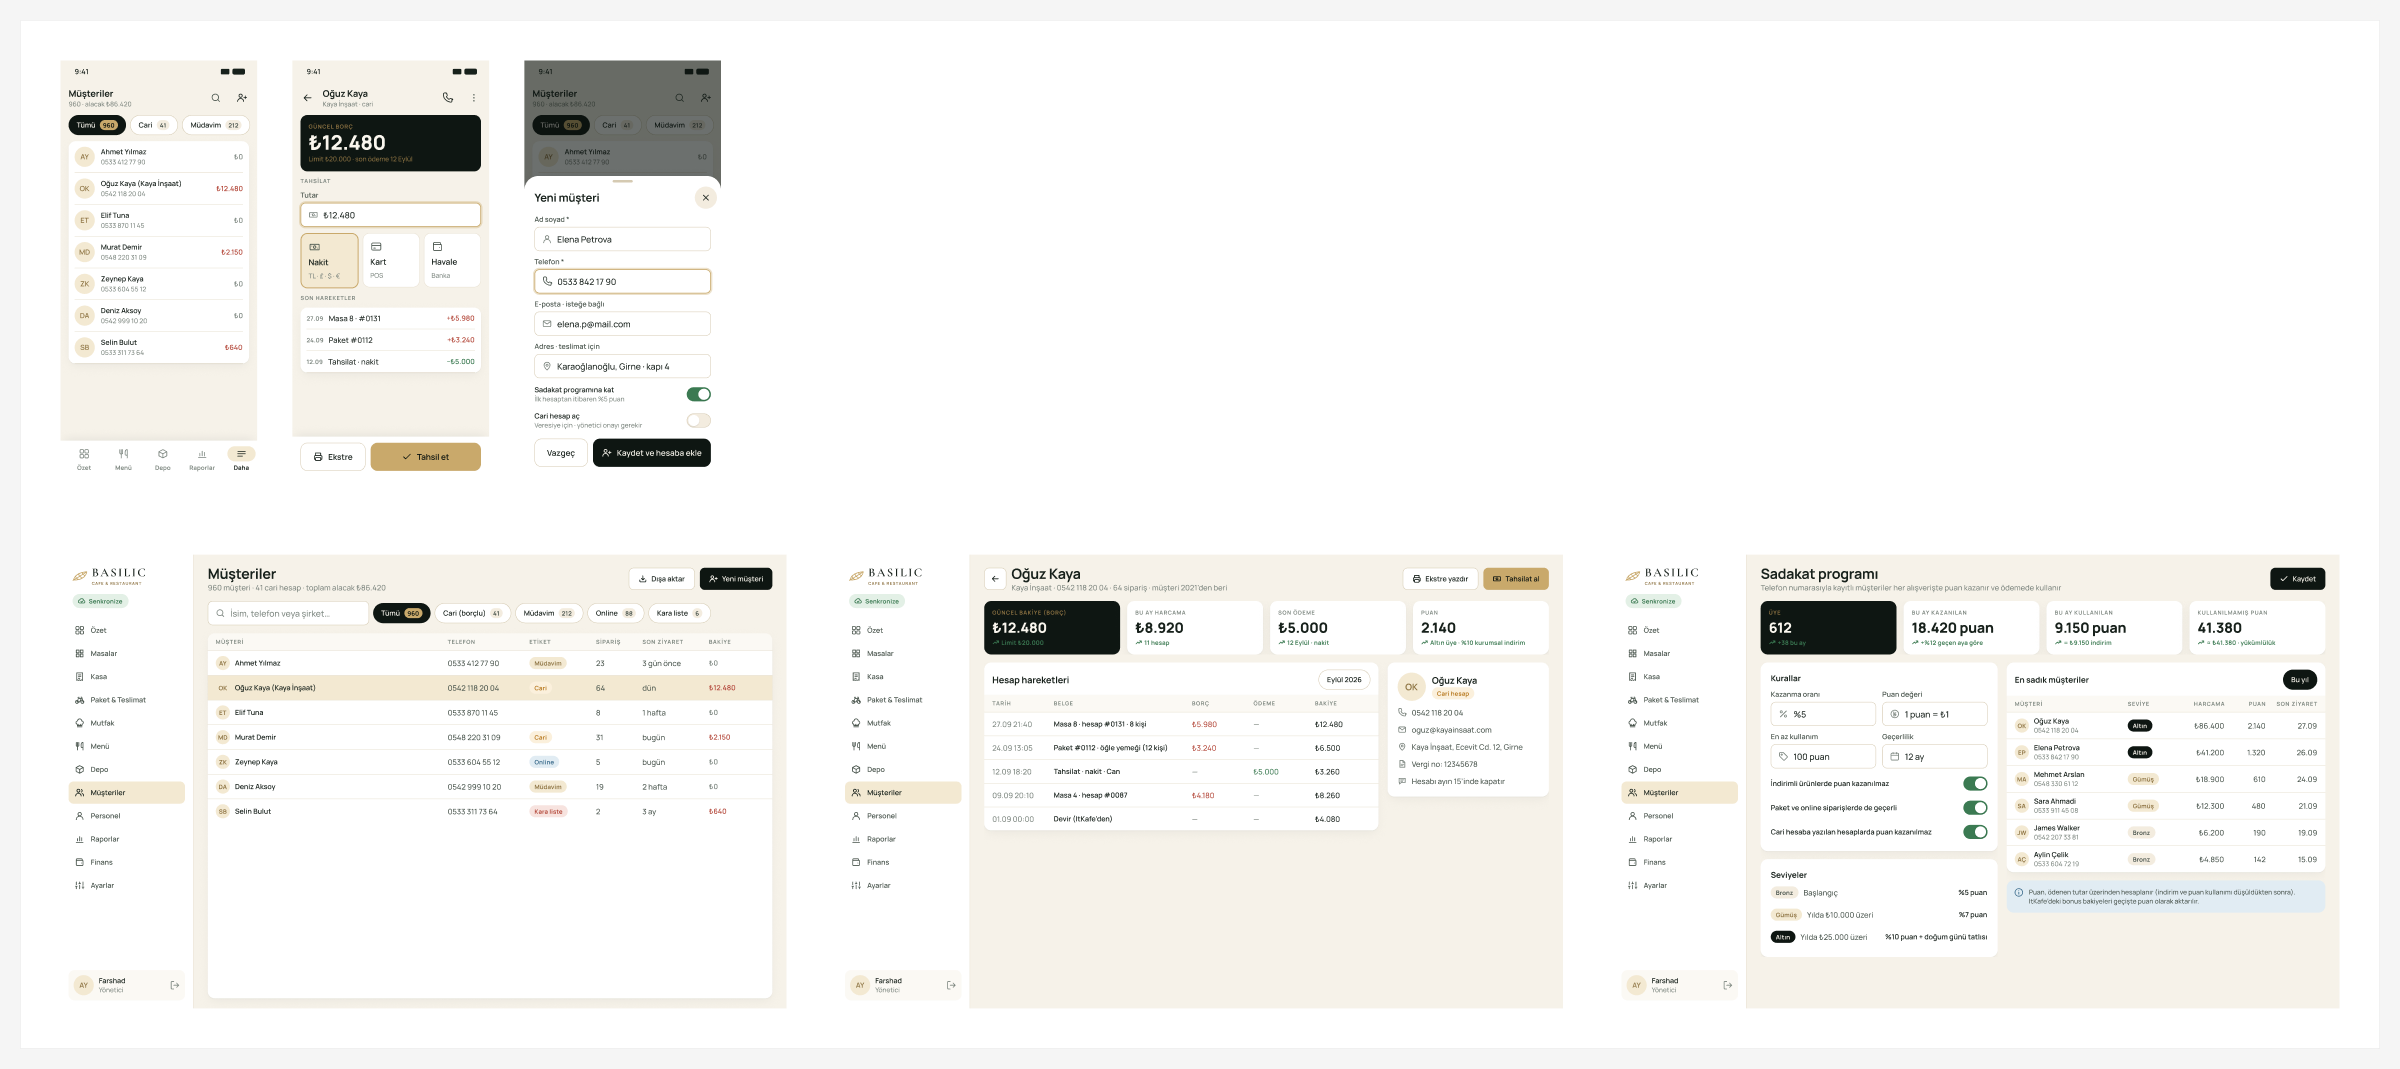
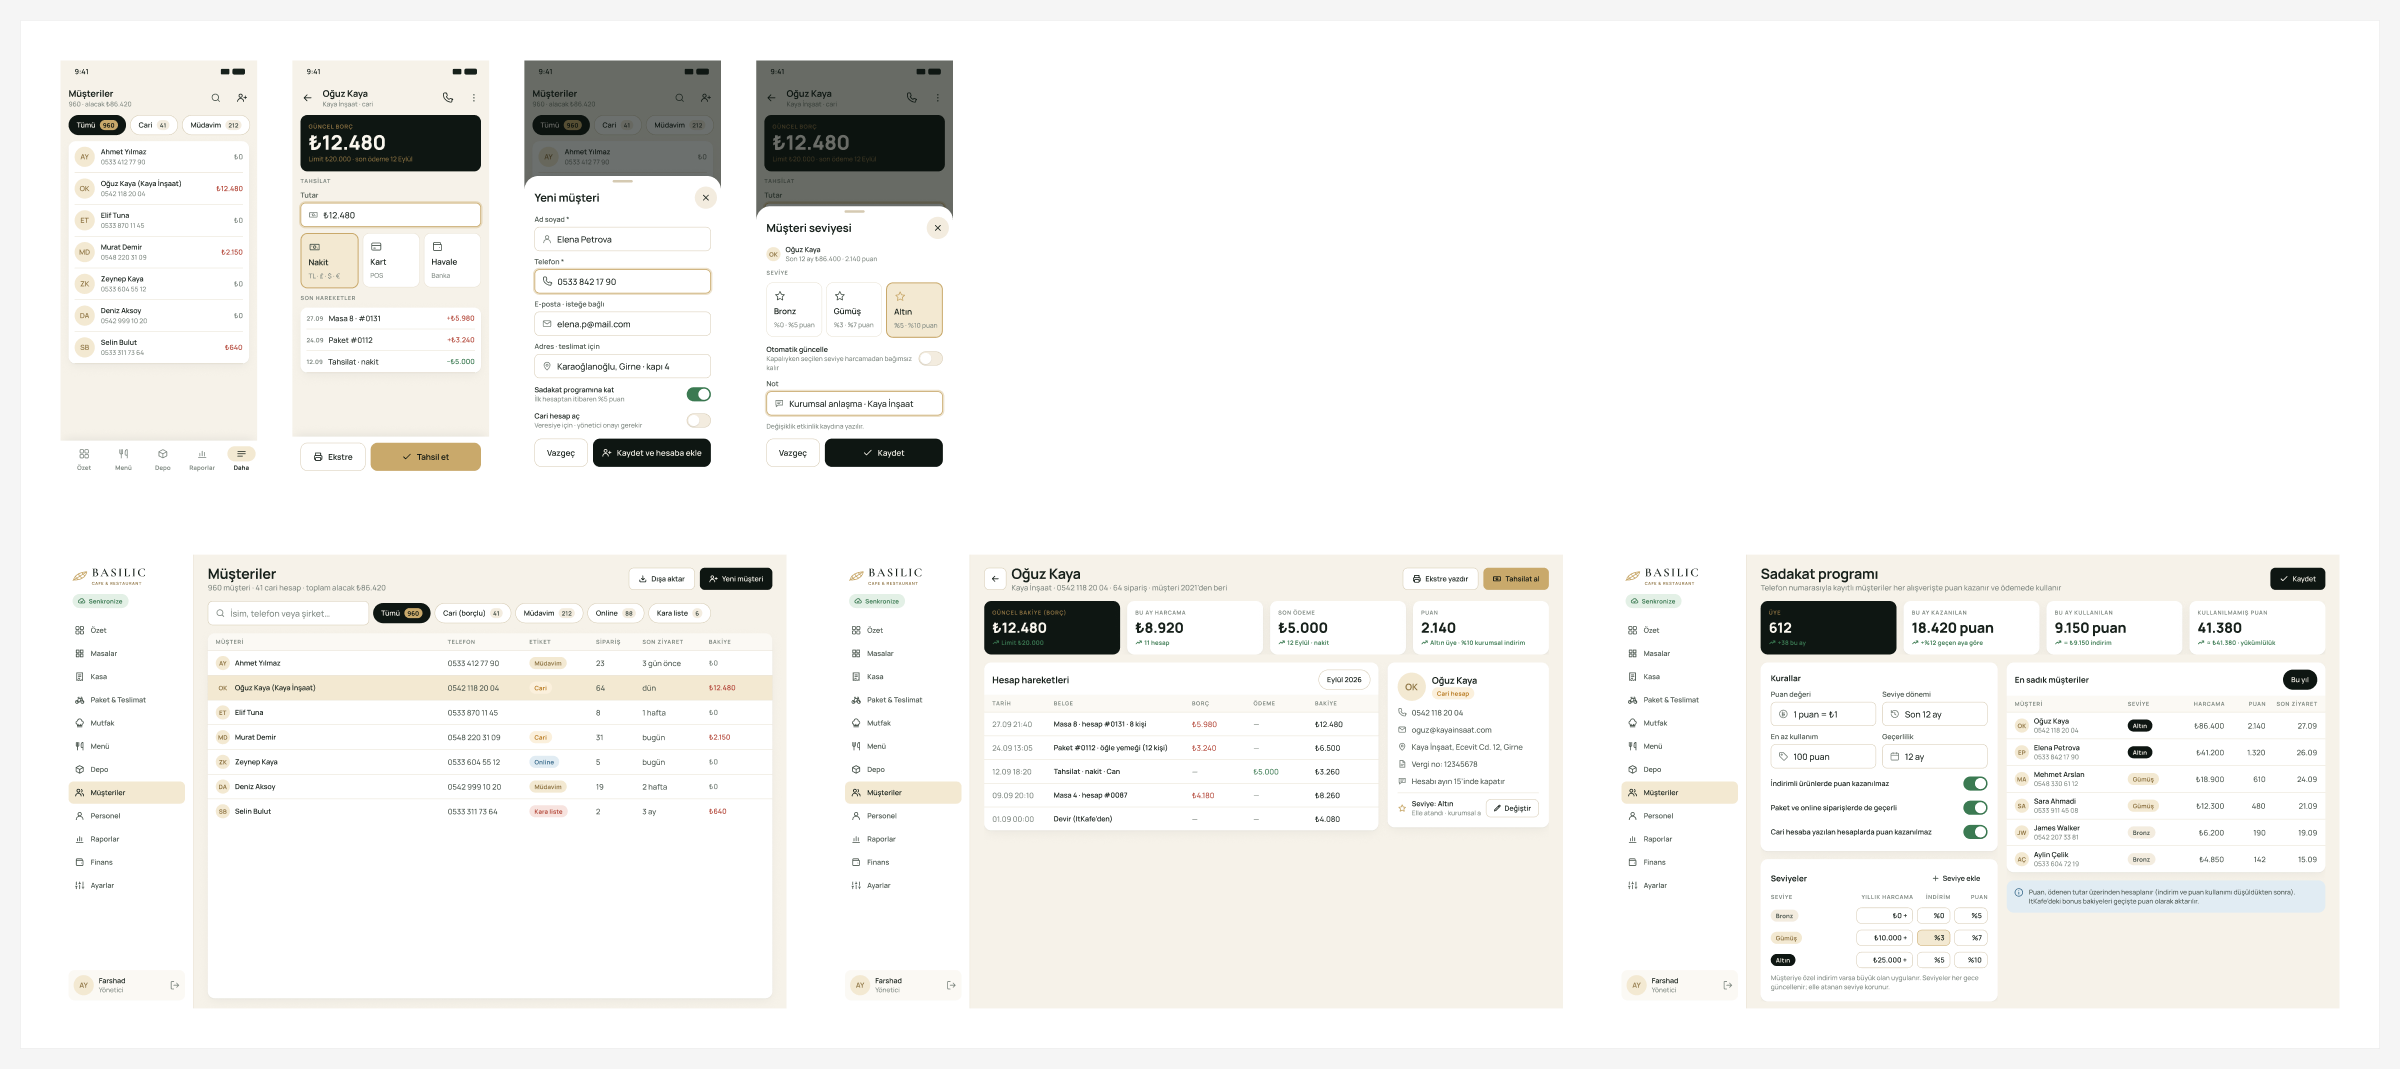
Design: editable loyalty tiers, per-customer tier, user management
- CU5: tier table editable (threshold, discount %, earn %), point value
- CU2 + CU7: set a customer's tier by hand
- ST8 + ST9: add, edit, deactivate users; reset PIN or password
- Roadmap, handoff notes and screen index updated (100 screens)

diff --git a/PLAN.md b/PLAN.md
@@ -17,12 +17,12 @@
 |---|---|---|
 | ۰ | طرح و آمادهسازی | ✅ ۷ از ۷ |
 | ۱ | طراحی کامل در Figma (موبایل و دسکتاپ) | ✅ ۱۵ از ۱۵ |
-| ۲ | پایه، امنیت و زیرساخت | ⬜ ۰ از ۱۴ |
+| ۲ | پایه، امنیت و زیرساخت | ⬜ ۰ از ۱۵ |
 | ۳ | منو و میزها | ⬜ ۰ از ۸ |
 | ۴ | سفارش و صندوق | ⬜ ۰ از ۱۰ |
 | ۵ | آشپزخانه و بار | ⬜ ۰ از ۵ |
 | ۶ | انبار | ⬜ ۰ از ۸ |
-| ۷ | مشتریان، حسابها و باشگاه مشتریان | ⬜ ۰ از ۷ |
+| ۷ | مشتریان، حسابها و باشگاه مشتریان | ⬜ ۰ از ۸ |
 | ۸ | پرسنل و حقوق | ⬜ ۰ از ۴ |
 | ۹ | گزارشها، مالی و خروجی حسابدار | ⬜ ۰ از ۱۱ |
 | ۱۰ | انتقال داده، تست در رستوران و شروع | ⬜ ۰ از ۹ |
@@ -162,7 +162,7 @@
 - تخفیفها و پروموشنها.
 - **ثبت سریع مشتری جدید** توسط صندوق: فقط نام و تلفن لازم است و بقیه اختیاری است.
 - **سابقهٔ کامل خرید** هر مشتری: همهٔ سفارشها، مبلغها و آیتمهای پرتکرار.
-- **باشگاه مشتریان:** مشتری با شمارهٔ تلفن امتیاز جمع میکند و هنگام پرداخت از آن استفاده میکند. پیشفرض: ۵٪ هر خرید امتیاز میشود و هر امتیاز ۱ لیر است (قابل تغییر). تخفیف ثابت برای مشتری خاص هم مثل الان میماند. امتیازهای فعلی ItKafe منتقل میشوند.
+- **باشگاه مشتریان:** مشتری با شمارهٔ تلفن امتیاز جمع میکند و هنگام پرداخت از آن استفاده میکند. ارزش هر امتیاز، حداقل استفاده، مدت اعتبار و **سطحها** (نام، حد خرید سالانه، درصد تخفیف و درصد امتیاز) همه از پنل مدیریت قابل تغییرند. پیشفرض: برنز ۰٪ تخفیف و ۵٪ امتیاز؛ نقره (از ۱۰٬۰۰۰ لیر خرید در سال) ۳٪ و ۷٪؛ طلا (از ۲۵٬۰۰۰ لیر) ۵٪ و ۱۰٪؛ هر امتیاز ۱ لیر. سطح هر مشتری هر شب از خرید ۱۲ ماه اخیرش حساب میشود، و مدیر میتواند سطح یک مشتری را دستی تغییر دهد (سطح دستی ثابت میماند). تخفیف ثابت برای مشتری خاص هم مثل الان میماند؛ اگر هم تخفیف سطح و هم تخفیف خاص داشت، بزرگتر اعمال میشود. امتیازهای فعلی ItKafe منتقل میشوند.
 
 ### ۵.۸ پرسنل
 - کارمندان، سمتها و دسترسیها. کارکنان با PIN وارد میشوند.
@@ -212,6 +212,7 @@
 
 ### ۵.۱۳ امنیت و نگهداری
 - **نقشها و سطح دسترسی:** نقشهای آماده (گارسون، صندوق، سرآشپز، انباردار، مدیر) و امکان ساختن نقش تازه. دسترسی هر نفر از نقشش میآید و برای همان نفر قابل تغییر است.
+- **مدیریت کاربران:** مدیر کاربر اضافه، ویرایش و حذف میکند و PIN یا رمز هر کاربر را ریست میکند. حذف یعنی غیرفعال کردن: کاربر دیگر وارد نمیشود ولی سابقهٔ سفارشها و فعالیتش پاک نمیشود. PIN تازه فقط یک بار نشان داده میشود؛ PIN بعد از ۳ بار اشتباه ۳۰ ثانیه قفل میشود.
 - **گزارش فعالیت کاربران:** هر کار مهم خودکار ثبت میشود: ورود و خروج، حذف آیتم، تخفیف، تغییر قیمت، باز کردن کشوی پول، ورود و خروج پول، و تغییر تنظیمات. بر اساس نفر، نوع کار و تاریخ قابل جستجوست. این گزارش قابل پاک کردن یا ویرایش نیست.
 - **پشتیبانگیری و بازیابی از پنل مدیریت:** بکاپ خودکار شبانه (مثل قبل)، دکمهٔ «الان بکاپ بگیر»، دانلود فایل بکاپ، و بازیابی از یک بکاپ انتخابی. بازیابی فقط کار مدیر است، تأیید دوباره میخواهد و قبل از آن خودکار از وضعیت فعلی بکاپ گرفته میشود.
 
@@ -293,7 +294,7 @@
 - [x] قالب فیشهای چاپی ۸۰ میلیمتری
 - [x] امکانات تکمیلی: پروفایل رستوران، بکاپ و بازیابی، قیمت و موجودی سریع، باشگاه مشتریان و مشتری جدید، تراکنشهای صندوق، ورود آنلاین با رمز، عملکرد کارکنان، هزینه و درآمد، سود و زیان، نقشها و گزارش فعالیت
 
-> ۹۷ صفحه (۲۴ صفحهٔ تازه در نسخهٔ ۱٫۱)، ۳۶ جزء، ۹۸ آیکون. فهرست صفحهها با لینک مستقیم Figma: [docs/screens.md](docs/screens.md) · راهنمای تحویل به برنامهنویسی (توکنها ← CSS، اجزا، قواعد چیدمان): [docs/design-handoff.md](docs/design-handoff.md) · تصویر کلی هر صفحه: پوشهٔ [design/](design/)
+> ۱۰۰ صفحه (۲۷ صفحهٔ تازه در نسخهٔ ۱٫۱)، ۳۶ جزء، ۹۸ آیکون. فهرست صفحهها با لینک مستقیم Figma: [docs/screens.md](docs/screens.md) · راهنمای تحویل به برنامهنویسی (توکنها ← CSS، اجزا، قواعد چیدمان): [docs/design-handoff.md](docs/design-handoff.md) · تصویر کلی هر صفحه: پوشهٔ [design/](design/)
 
 ### مرحلهٔ ۲ — پایه، امنیت و زیرساخت
 > نتیجه: برنامهای که هنوز خالی است ولی روی PC و وب بالا میآید و با هم همگام است.
@@ -307,6 +308,7 @@
 - [ ] پشتیبانگیری خودکار و برگرداندن روی یک PC دیگر
 - [ ] پشتیبانگیری و بازیابی از پنل مدیریت
 - [ ] نقشها و سطح دسترسی قابل تعریف
+- [ ] مدیریت کاربران: افزودن، ویرایش، حذف (غیرفعال) و ریست PIN و رمز
 - [ ] ثبت خودکار فعالیت همهٔ کاربران و صفحهٔ گزارش فعالیت
 - [ ] پروفایل رستوران: لوگو، مشخصات و متن فیش
 - [ ] تنظیمات پایه: ارزها و نرخها، حداقل سفارش، پرینترها
@@ -362,6 +364,7 @@
 - [ ] ثبت سریع مشتری جدید توسط صندوق
 - [ ] سابقهٔ کامل خرید هر مشتری
 - [ ] باشگاه مشتریان: جمع کردن و خرج کردن امتیاز
+- [ ] سطحهای مشتری قابل ویرایش (تخفیف و امتیاز) و تغییر دستی سطح هر مشتری
 - [ ] تطبیق نهایی با Figma در موبایل و دسکتاپ
 
 ### مرحلهٔ ۸ — پرسنل و حقوق
@@ -447,6 +450,9 @@
 | ۲۶ | بخش مالی: ثبت هزینه و درآمد، و گزارش سود و زیان | ۲۰۲۶/۰۹/۲۸ |
 | ۲۷ | نقشهای قابل تعریف، گزارش فعالیت غیرقابلویرایش، و بکاپ و بازیابی از پنل مدیریت | ۲۰۲۶/۰۹/۲۸ |
 | ۲۸ | پروفایل رستوران (لوگو و مشخصات) منبع همهٔ نامها و اطلاعات تماس در برنامه است | ۲۰۲۶/۰۹/۲۸ |
+| ۲۹ | ارزش امتیاز و سطحهای مشتری (درصد تخفیف و امتیاز هر سطح) از پنل مدیریت قابل تغییرند؛ سطح هر مشتری دستی هم قابل تغییر است | ۲۰۲۶/۰۹/۲۸ |
+| ۳۰ | مدیر کاربران را اضافه، ویرایش و حذف (غیرفعال) میکند و PIN و رمزشان را ریست میکند | ۲۰۲۶/۰۹/۲۸ |
+| ۳۱ | ساخت برنامه بدون توقف و بدون تأیید مرحلهای، به ترتیب نقشهٔ راه، انجام میشود | ۲۰۲۶/۰۹/۲۸ |
 
 ## ۱۱. موارد باز
 

diff --git a/docs/screens.md b/docs/screens.md
@@ -1,6 +1,6 @@
 # Screens / صفحهها
 
-Figma: https://www.figma.com/design/1VzYLeeic0ExwgdWt7RbVw — **97 screens**. Every screen links to its frame. Overview images are in [`design/`](../design/).
+Figma: https://www.figma.com/design/1VzYLeeic0ExwgdWt7RbVw — **100 screens**. Every screen links to its frame. Overview images are in [`design/`](../design/).
 
 🆕 = added in design v1.1 (2026-09-28) · ✏ = changed in v1.1 (Sofrexa branding, password login, loyalty points).
 
@@ -104,6 +104,7 @@ Figma: https://www.figma.com/design/1VzYLeeic0ExwgdWt7RbVw — **97 screens**. E
 | CU4 | Müşteri hesabı + tahsilat · Mobile | [open](https://www.figma.com/design/1VzYLeeic0ExwgdWt7RbVw?node-id=41-652) |
 | CU5 🆕 | Sadakat programı · Desktop | [open](https://www.figma.com/design/1VzYLeeic0ExwgdWt7RbVw?node-id=81-425) |
 | CU6 🆕 | Yeni müşteri (sheet) · Mobile | [open](https://www.figma.com/design/1VzYLeeic0ExwgdWt7RbVw?node-id=81-888) |
+| CU7 🆕 | Müşteri seviyesi (sheet) · Mobile | [open](https://www.figma.com/design/1VzYLeeic0ExwgdWt7RbVw?node-id=103-743) |
 
 ## 08 · Personel · پرسنل
 
@@ -118,6 +119,8 @@ Figma: https://www.figma.com/design/1VzYLeeic0ExwgdWt7RbVw — **97 screens**. E
 | ST5 🆕 | Roller ve yetkiler · Desktop | [open](https://www.figma.com/design/1VzYLeeic0ExwgdWt7RbVw?node-id=93-354) |
 | ST6 🆕 | Etkinlik kaydı · Desktop | [open](https://www.figma.com/design/1VzYLeeic0ExwgdWt7RbVw?node-id=93-813) |
 | ST7 🆕 | Etkinlik kaydı · Mobile | [open](https://www.figma.com/design/1VzYLeeic0ExwgdWt7RbVw?node-id=93-1214) |
+| ST8 🆕 | Kullanıcılar ve giriş · Desktop | [open](https://www.figma.com/design/1VzYLeeic0ExwgdWt7RbVw?node-id=104-836) |
+| ST9 🆕 | Kullanıcı düzenle (sheet) · Mobile | [open](https://www.figma.com/design/1VzYLeeic0ExwgdWt7RbVw?node-id=104-1339) |
 
 ## 09 · Raporlar · گزارشها
 

diff --git a/docs/design-handoff.md b/docs/design-handoff.md
@@ -109,6 +109,17 @@ New screens are marked 🆕 in [screens.md](screens.md). Build them with the sam
   - Points are earned on the amount actually paid, after discounts and points.
   - Tier rates: Bronze 5 %, Silver 7 %, Gold 10 %. 1 point = ₺1. Minimum use is 100 points.
   - ItKafe bonus balances are imported as points.
+- **Loyalty tiers (CU5, CU7):**
+  - Each tier has a name, a yearly-spend threshold, a discount % and an earn %, all editable. The point value, minimum redemption and expiry are editable too.
+  - A nightly job recalculates each customer's tier from the last 12 months of spending.
+  - A tier set by hand (CU7) is kept until it is switched back to automatic.
+  - If a customer has both a tier discount and a personal discount, the larger one applies.
+- **Users (ST8, ST9):**
+  - The manager adds, edits and deletes users and resets PINs and passwords.
+  - Delete means deactivate: history stays linked.
+  - A new PIN is shown once.
+  - 3 wrong PINs lock the user for 30 s.
+  - Remote (off-site) login needs email + password and is off by default.
 - **Roles (ST5)** set the defaults. A person-level exception (ST4) overrides their role.
 - **Activity log (ST6/ST7):**
   - Written by the server for every sensitive action: login and failed PIN, void, discount, price change, drawer open, cash in and out, settings change, backup and restore.

diff --git a/README.md b/README.md
@@ -15,7 +15,7 @@ It is **local-first**. The cashier PC runs the in-house server, so service never
 ## Documents
 
 - **[PLAN.md](PLAN.md)** — plan and roadmap (Persian). Tick boxes show what is done.
-- **[docs/screens.md](docs/screens.md)** — all 97 designed screens, each linking to its Figma frame.
+- **[docs/screens.md](docs/screens.md)** — all 100 designed screens, each linking to its Figma frame.
 - **[docs/design-handoff.md](docs/design-handoff.md)** — tokens → CSS variables, components and layout rules. The build follows Figma exactly.
 - **[docs/figma-ids.json](docs/figma-ids.json)** — Figma page, component and variable-collection IDs.
 - **[docs/itkafe-schema.md](docs/itkafe-schema.md)** — map of the legacy ItKafe database, for the migration.
@@ -41,4 +41,4 @@ Sofrexa is the platform; each restaurant is a tenant with its own name and logo.
 
 ## Status
 
-Design v1.1 is complete (97 screens, 36 components, 98 icons). Implementation has not started — see the status table in [PLAN.md](PLAN.md).
+Design v1.1 is complete (100 screens, 36 components, 98 icons). Implementation has not started — see the status table in [PLAN.md](PLAN.md).
